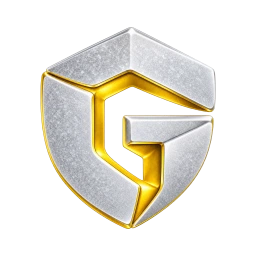
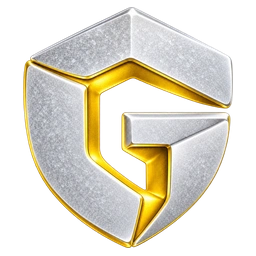
Match gold browser and page mark optical size to blue brand

diff --git a/frontend/login.html b/frontend/login.html
@@ -1,7 +1,7 @@
 <!doctype html>
 <html lang="en">
   <head>
-    <link rel="icon" type="image/png" sizes="32x32" href="/icons/ghandshekan-panel-32.png?v=gold-ui-20261112" />
+    <link rel="icon" type="image/png" sizes="32x32" href="/icons/ghandshekan-panel-32.png?v=gold-size-20261112" />
     <meta charset="UTF-8" />
     <meta name="viewport" content="width=device-width, initial-scale=1.0" />
     <meta name="robots" content="noindex,nofollow" />

diff --git a/frontend/index.html b/frontend/index.html
@@ -1,7 +1,7 @@
 <!doctype html>
 <html lang="en">
   <head>
-    <link rel="icon" type="image/png" sizes="32x32" href="/icons/ghandshekan-panel-32.png?v=gold-ui-20261112" />
+    <link rel="icon" type="image/png" sizes="32x32" href="/icons/ghandshekan-panel-32.png?v=gold-size-20261112" />
     <meta charset="UTF-8" />
     <title>GhandShekan Pro</title>
     <link rel="icon" type="image/png" href="/ghandshekan-favicon.png" />
